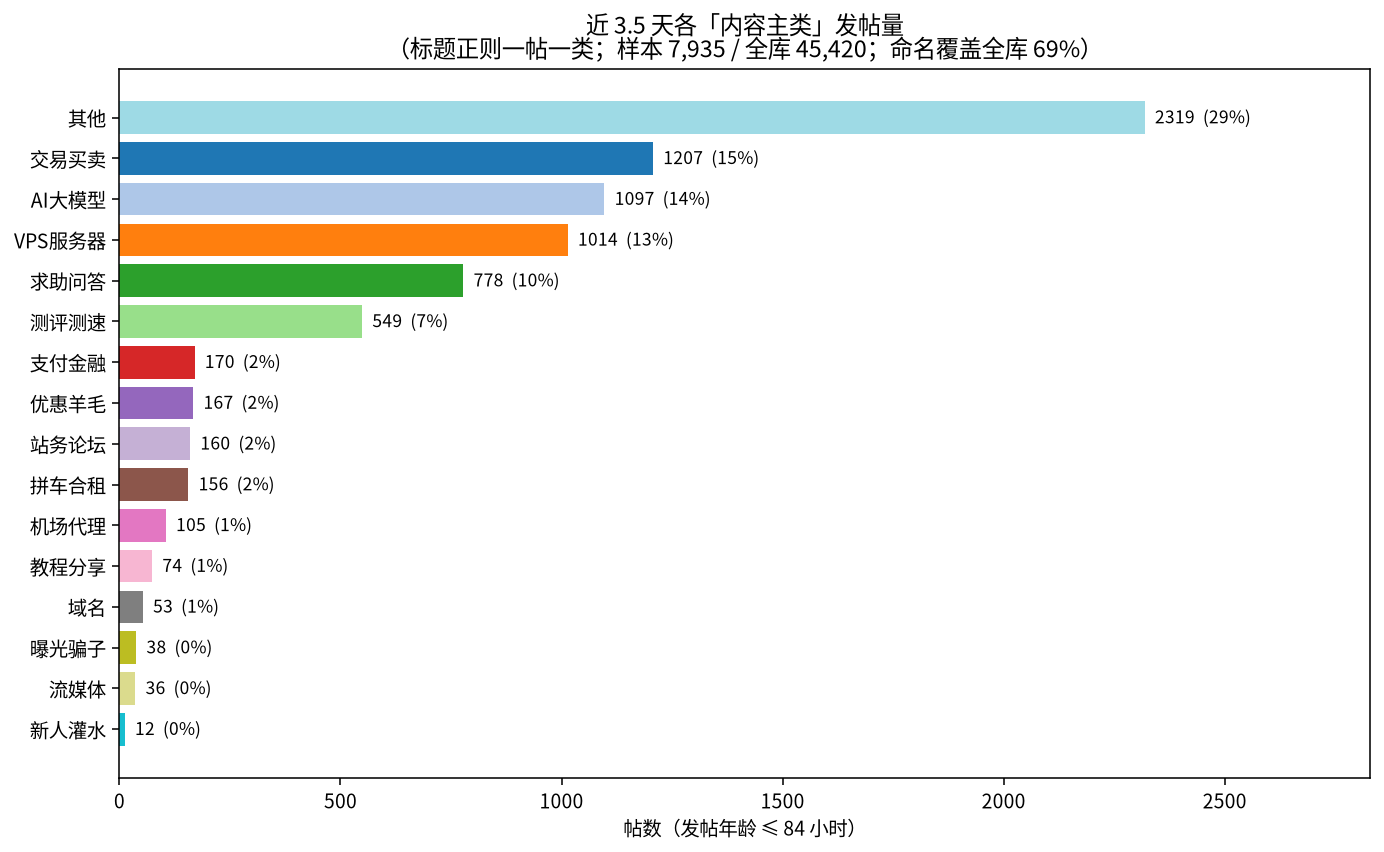
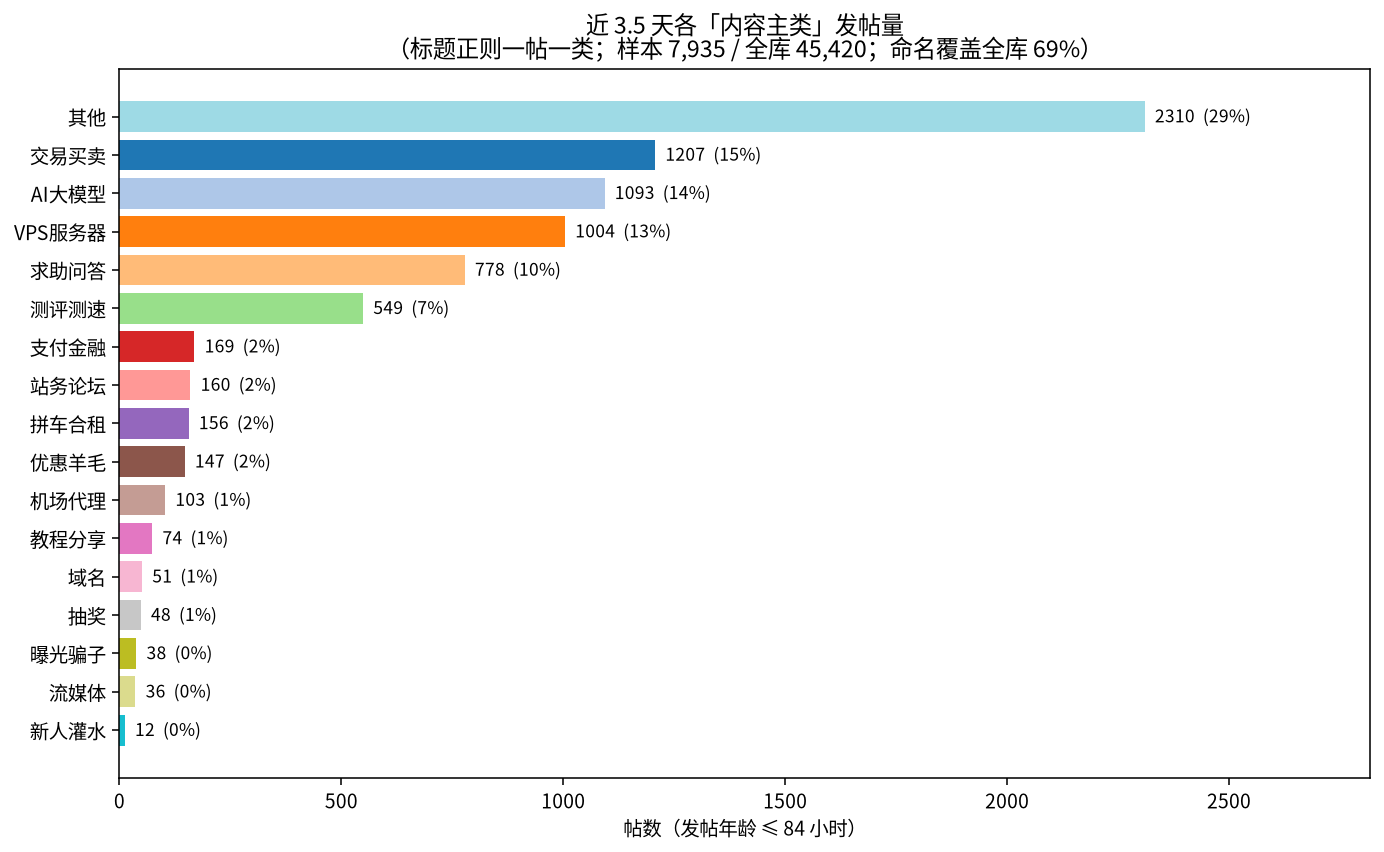
content: 内容主类独立「抽奖」并更新图表
从优惠羊毛拆出抽奖意图类，重跑占比与互动统计。

diff --git a/content/posts/nodeseek-content-types.md b/content/posts/nodeseek-content-types.md
@@ -1,7 +1,7 @@
 ---
 title: "NodeSeek 帖子在聊什么：按内容主类拆开"
 date: 2026-10-17T01:55:00+08:00
-description: "不看版块、只看标题：用 4.5 万帖给每帖打一个内容主类，统计近窗占比与浏览/评论中位数。"
+description: "不看版块、只看标题：用 4.5 万帖给每帖打一个内容主类（含独立「抽奖」），统计近窗占比与浏览/评论中位数。"
 tags: ["数据分析", "NodeSeek", "爬虫"]
 ---
 
@@ -11,8 +11,8 @@ tags: ["数据分析", "NodeSeek", "爬虫"]
 
 ## 方法
 
-- **主类**：15 类规则按优先级首次命中即为主类——意图类（曝光 / 交易 / 拼车 / 测评 / 新人灌水）优先于话题类（AI / VPS / 机场 / …），因此「`[出]` 一台 VPS」→ **交易买卖**，次要标签可记 VPS。
-- **未命中** → **其他**（全库 30.9%；近窗 29.2%）。命名覆盖全库 **69.1%**（31,370 / 45,420）。
+- **主类**：16 类规则按优先级首次命中即为主类——意图类（曝光 / 交易 / 拼车 / 测评 / 新人灌水 / **抽奖**）优先于话题类（AI / VPS / 机场 / …），因此「`[出]` 一台 VPS」→ **交易买卖**，次要标签可记 VPS；「抽一台 VPS」→ **抽奖**。
+- **未命中** → **其他**（全库 30.9%；近窗 29.1%）。命名覆盖全库 **69.1%**（31,399 / 45,420）。
 - **发帖量**：高流量版块抓取约 100 页封顶，历史深度不可比。发帖结构只用 **发帖年龄 ≤ 84 小时** 的 **7,935** 帖。
 - **互动**：浏览 / 评论**中位数**用全样本；讨论热度（评论÷浏览）用发帖满 24h 子集。
 - **不做**：不读帖正文（本机访问会被 Cloudflare 拦）；不把版块字段写入分类器（热力图仅作对照）。
@@ -25,24 +25,25 @@ tags: ["数据分析", "NodeSeek", "爬虫"]
 
 | 内容主类 | 帖数 | 占比 |
 | --- | ---: | ---: |
-| 其他（标题未命中规则） | 2,319 | 29.2% |
+| 其他（标题未命中规则） | 2,310 | 29.1% |
 | 交易买卖 | 1,207 | 15.2% |
-| AI / 大模型 | 1,097 | 13.8% |
-| VPS / 服务器 | 1,014 | 12.8% |
+| AI / 大模型 | 1,093 | 13.8% |
+| VPS / 服务器 | 1,004 | 12.7% |
 | 求助问答 | 778 | 9.8% |
 | 测评测速 | 549 | 6.9% |
-| 支付金融 | 170 | 2.1% |
-| 优惠羊毛 | 167 | 2.1% |
+| 支付金融 | 169 | 2.1% |
 | 站务论坛 | 160 | 2.0% |
 | 拼车合租 | 156 | 2.0% |
-| 机场代理 | 105 | 1.3% |
+| 优惠羊毛 | 147 | 1.9% |
+| 机场代理 | 103 | 1.3% |
 | 教程分享 | 74 | 0.9% |
-| 域名 | 53 | 0.7% |
+| 域名 | 51 | 0.6% |
+| **抽奖** | **48** | **0.6%** |
 | 曝光骗子 | 38 | 0.5% |
 | 流媒体 | 36 | 0.5% |
 | 新人灌水 | 12 | 0.2% |
 
-命名帖里（剔除「其他」后的 5,616 帖）：交易约 **21%**，AI 约 **20%**，VPS 约 **18%**，求助约 **14%**，测评约 **10%**——五类就占命名帖的八成以上。
+命名帖里（剔除「其他」后的 5,625 帖）：交易约 **21%**，AI 约 **19%**，VPS 约 **18%**，求助约 **14%**，测评约 **10%**——五类仍占命名帖的八成以上。抽奖近窗约 **0.6%**，量不大，但互动极高（见下）。
 
 拼车在近窗只有 2.0%，但全库样本里拼车标题很多（3,785）：说明拼车版块历史被页数上限堆满了，**量看近窗，质看中位数**。
 
@@ -50,7 +51,7 @@ tags: ["数据分析", "NodeSeek", "爬虫"]
 
 ![近窗内容主类占比](/nodeseek-content-types/02_content_recent_share_donut.png)
 
-交易帖的次要标签里，**VPS 出现 1,476 次**（占交易主类帖约一半），AI 166、拼车 91——买卖的货以机器为主，账号 / AI 席位次之。
+交易帖的次要标签里，**VPS 出现 1,476 次**（占交易主类帖约一半），AI 166、拼车 91——买卖的货以机器为主，账号 / AI 席位次之。抽奖帖的次要标签常见 AI（56）、VPS（49）——奖品多半是席位或机器。
 
 ## 什么内容最吃浏览
 
@@ -59,25 +60,26 @@ tags: ["数据分析", "NodeSeek", "爬虫"]
 | 内容主类 | 浏览中位 | 评论中位 | 帖数 | 全库占比 |
 | --- | ---: | ---: | ---: | ---: |
 | 曝光骗子 | 1,300 | 23 | 1,070 | 2.4% |
-| 支付金融 | 493 | 9 | 745 | 1.6% |
-| 优惠羊毛 | 482 | 7 | 1,170 | 2.6% |
-| 域名 | 465 | 9 | 259 | 0.6% |
-| 教程分享 | 454 | 9 | 875 | 1.9% |
-| 站务论坛 | 451 | 9 | 793 | 1.7% |
-| VPS / 服务器 | 404 | 8 | 4,133 | 9.1% |
+| **抽奖** | **757** | **24** | **298** | **0.7%** |
+| 支付金融 | 491 | 9 | 740 | 1.6% |
+| 域名 | 465 | 9 | 257 | 0.6% |
+| 优惠羊毛 | 454 | 6 | 1,026 | 2.3% |
+| 教程分享 | 453 | 9 | 874 | 1.9% |
+| 站务论坛 | 451 | 9 | 791 | 1.7% |
+| VPS / 服务器 | 401 | 8 | 4,089 | 9.0% |
 | 拼车合租 | 393 | 6 | 3,785 | 8.3% |
-| AI / 大模型 | 356 | 6 | 5,936 | 13.1% |
-| 求助问答 | 352 | 9 | 2,870 | 6.3% |
-| 其他 | 345 | 7 | 14,050 | 30.9% |
-| 流媒体 | 321 | 7 | 411 | 0.9% |
-| 机场代理 | 308 | 6 | 596 | 1.3% |
+| AI / 大模型 | 354 | 6 | 5,880 | 12.9% |
+| 求助问答 | 352 | 9 | 2,869 | 6.3% |
+| 其他 | 344 | 7 | 14,021 | 30.9% |
+| 流媒体 | 321 | 6 | 408 | 0.9% |
+| 机场代理 | 306 | 6 | 585 | 1.3% |
 | 交易买卖 | 290 | 6 | 3,069 | 6.8% |
 | 测评测速 | 265 | 3 | 4,623 | 10.2% |
 | 新人灌水 | 121 | 0 | 1,035 | 2.3% |
 
-曝光类仍然最吃流量：浏览中位约为交易的 **4.5 倍**、测评的 **4.9 倍**。测评量大但单帖阅读偏低（中位 265、评论中位仅 3）——符合 NQ/TQ 留档帖「发完就沉」的形态。新人灌水中位评论为 0。
+曝光类仍然最吃浏览；**抽奖紧随其后**（浏览中位 757），且**评论中位 24**——全库最高，略高于曝光的 23。测评量大但单帖阅读偏低；新人灌水中位评论为 0。把抽奖从「优惠羊毛」里拆开后，羊毛的浏览中位从约 482 降到 454，说明原先羊毛被抽奖帖抬高了。
 
-站务论坛的浏览**均值 2,321**、中位只有 **451**（约 **5.1×**）：少数置顶 / 官方说明把平均数拉飞，所以看中位数。
+站务论坛的浏览**均值 2,315**、中位只有 **451**（约 **5.1×**）：少数置顶 / 官方说明把平均数拉飞，所以看中位数。
 
 ![各内容主类浏览与评论中位数](/nodeseek-content-types/03_content_median_engagement.png)
 
@@ -89,24 +91,25 @@ tags: ["数据分析", "NodeSeek", "爬虫"]
 
 | 内容主类 | 评论/浏览中位 |
 | --- | ---: |
+| **抽奖** | **3.75%** |
 | 求助问答 | 2.16% |
 | 交易买卖 | 1.92% |
 | 机场代理 | 1.77% |
-| 站务论坛 | 1.76% |
-| 流媒体 | 1.71% |
+| 站务论坛 | 1.75% |
+| 流媒体 | 1.70% |
 | 教程分享 | 1.68% |
 | 其他 | 1.64% |
 | 曝光骗子 | 1.59% |
-| VPS / 服务器 | 1.57% |
-| 域名 | 1.55% |
+| VPS / 服务器 | 1.56% |
+| 域名 | 1.54% |
 | 拼车合租 | 1.54% |
-| AI / 大模型 | 1.53% |
-| 支付金融 | 1.52% |
-| 优惠羊毛 | 1.31% |
+| AI / 大模型 | 1.52% |
+| 支付金融 | 1.50% |
+| 优惠羊毛 | 1.26% |
 | 测评测速 | 1.11% |
 | 新人灌水 | 0% |
 
-求助类单位浏览带来的回复最多；测评、羊毛更偏「看一眼」；曝光绝对评论最高，但分母浏览也大，比值不是第一。
+**抽奖以 3.75% 遥遥领先**（约为求助的 1.7 倍、羊毛的 3 倍）——符合「留言抽奖」形态。求助、交易更爱聊；测评、羊毛更偏「看一眼」；曝光绝对评论高，但分母浏览也大。
 
 ![评论÷浏览中位数](/nodeseek-content-types/05_content_comment_view_ratio.png)
 
@@ -124,16 +127,17 @@ tags: ["数据分析", "NodeSeek", "爬虫"]
 
 ## 小结
 
-1. **量（近窗）**：在能命名的帖里，交易、AI、VPS、求助、测评是五大内容；版块上的「日常 54%」其实是这些话题的混合入口。
-2. **质（阅读）**：曝光骗子中位浏览遥遥领先；支付 / 羊毛 / 域名 / 教程次之；测评量大但单帖冷；新人灌水最冷。
-3. **质（讨论）**：求助、交易更爱聊；测评、羊毛更偏浏览。
-4. **买卖的货**：交易主类约一半标题同时命中 VPS。
+1. **量（近窗）**：在能命名的帖里，交易、AI、VPS、求助、测评是五大内容；版块上的「日常 54%」其实是这些话题的混合入口。抽奖约 **0.6%**，量小。
+2. **质（阅读）**：曝光中位浏览最高；**抽奖第二**（757），且评论中位全库最高（24）。
+3. **质（讨论）**：**抽奖讨论密度第一**（3.75%）；求助、交易次之；测评、羊毛更偏浏览。
+4. **买卖的货**：交易主类约一半标题同时命中 VPS；抽奖奖品侧常见 AI / VPS。
 
 ## 局限
 
 - 只看标题，谐音 / 无关键词 / 纯表情标题会进「其他」。
 - 近窗约 3.5 天；周末结构可能不同。
-- 优先级是启发式：话题类（AI / VPS…）排在求助之前，所以「怎么选 VPS」会标成 **VPS**，求助进次要标签；反之若只想把问句都归求助，需要调换规则顺序。
+- 优先级是启发式：话题类（AI / VPS…）排在求助之前，所以「怎么选 VPS」会标成 **VPS**，求助进次要标签；反之若只想把问句都归求助，需要调换规则顺序。抽奖排在意图段，但仍在交易 / 测评之后——标题同时带「出」与「抽奖」时归交易。
+- 标题关键词命中抽奖约 327 帖，其中 298 帖主类为抽奖；其余 29 帖被更高优先级意图（测评 / 交易 / 新人等）抢走。
 - `\b` 在中文旁不可靠，脚本改用「仅相对拉丁字母数字」的边界；仍可能漏标嵌在品牌名里的词。
 - 已删帖不在列表中；浏览数含刷新与爬虫。
 
@@ -146,13 +150,14 @@ tags: ["数据分析", "NodeSeek", "爬虫"]
 | 拼车合租 | 拼车 / 车找人 / 人找车 / 家庭组 / 已满 等 |
 | 测评测速 | NQ / TQ / 测评 / 留档 / 测速 / NodeQuality |
 | 新人灌水 | 新人报到 / test / 签到 / 水一贴 / 图床测试 |
+| **抽奖** | **抽奖 / 抽送 / 开奖 / 抽一台 / giveaway / lottery 等** |
 | AI大模型 | AI / GPT / Claude / Gemini / 中转站 / Muse 等 |
 | VPS服务器 | VPS / 小鸡 / 常见商家名 / KVM 等 |
 | 机场代理 | 机场 / Clash / 节点 / VPN / 住宅IP 等 |
 | 域名 | 域名 / 常见后缀 |
 | 流媒体 | Netflix / Emby / 油管 / Spotify 等 |
 | 支付金融 | 虚拟卡 / USDT / 支付宝 / eSIM / N26 等 |
-| 优惠羊毛 | 优惠 / 羊毛 / 抽奖 / 快讯 / 优惠码 等 |
+| 优惠羊毛 | 优惠 / 羊毛 / 快讯 / 优惠码 等（**不含抽奖**） |
 | 教程分享 | 教程 / 分享 / 踩坑 / 搭建 / 开源 |
 | 求助问答 | 求助 / 请问 / 怎么 / 哪家 / 以？结尾 |
 | 站务论坛 | NodeSeek / 邀请码 / 人机验证 / 油猴 等 |
